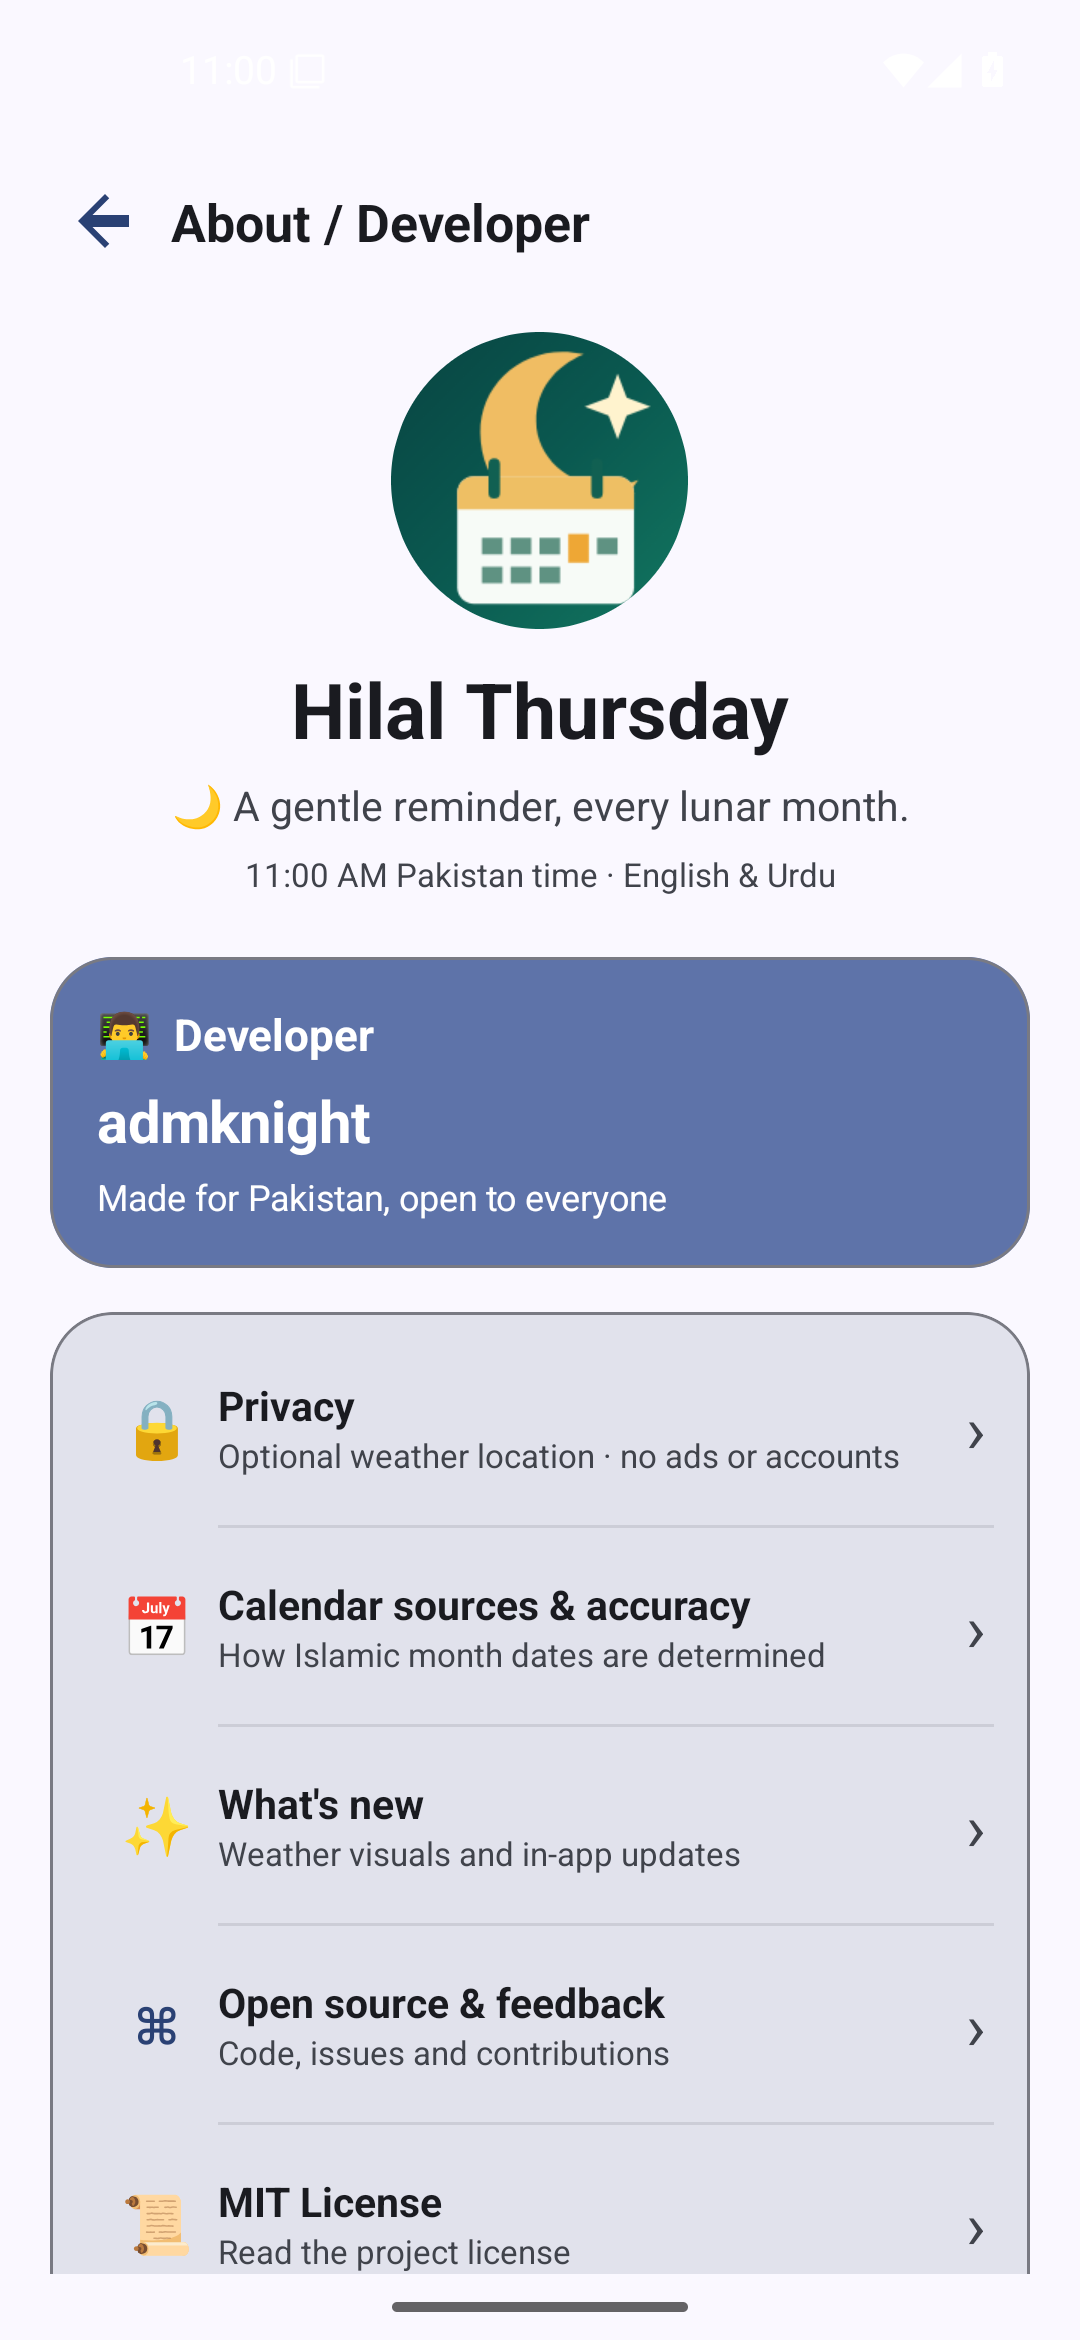
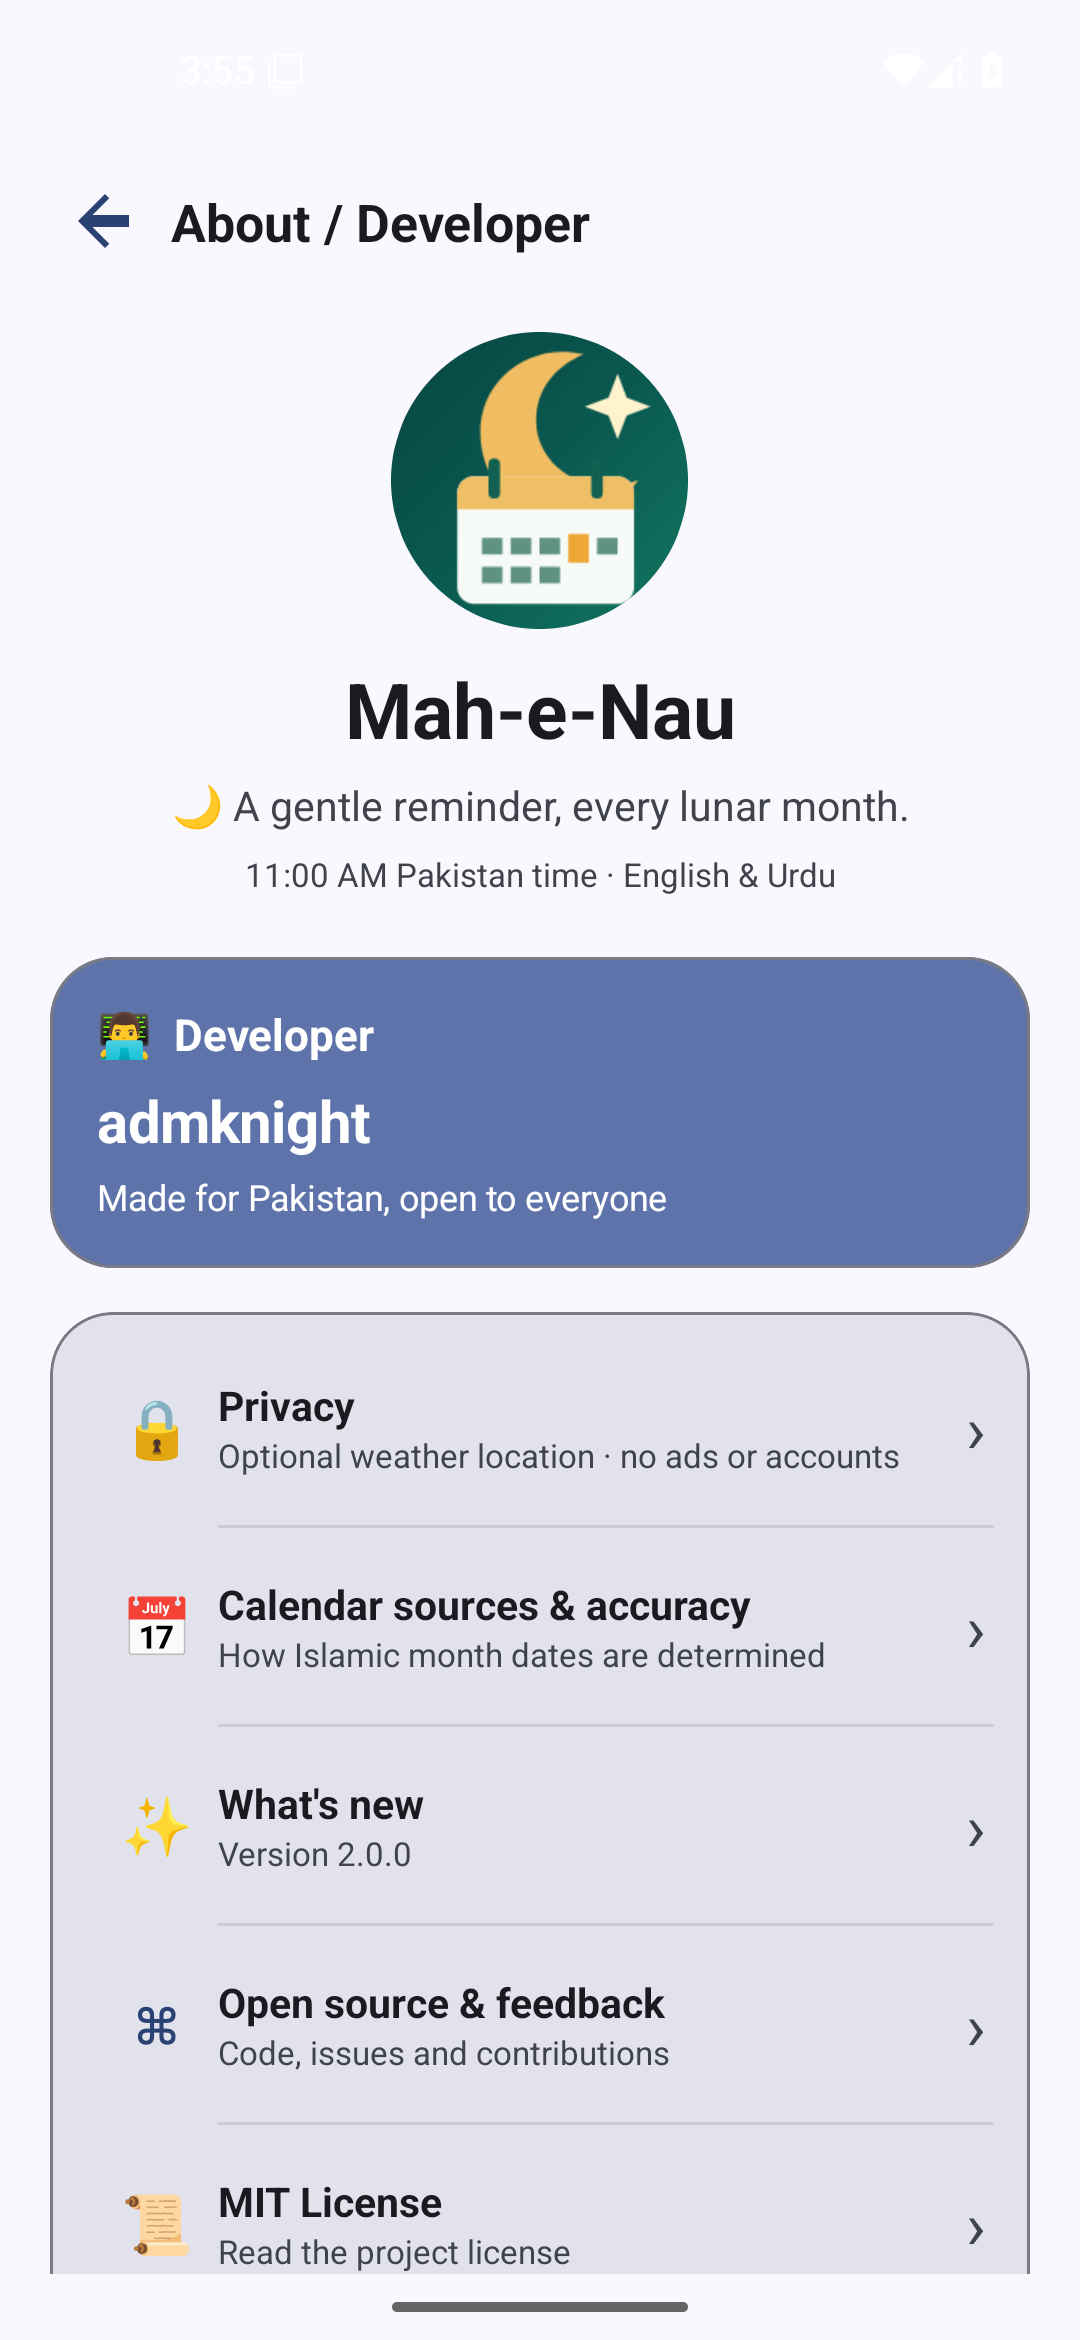
README: replace the v1.9.1 screenshots with version 2.0.1 captures
Twelve unedited emulator screenshots from the smoke-test run, showing the
Mah-e-Nau name and the screens added in 2.0. Removes the old capture
workflow and script, which were pinned to the v1.9.1 APK.

Claude-Session: https://claude.ai/code/session_01TxR8e23NeWMBJ9b8tC8q91

diff --git a/README.md b/README.md
@@ -25,28 +25,30 @@ A bilingual, open-source Android app that reminds you on the first Thursday of e
 
 ## Real app screenshots
 
-> These screenshots were taken from v1.9.1, when the app was still called Hilal Thursday. The name and several screens have changed since.
-
-These are **genuine, unedited screenshots** of the permanently signed **v1.9.1** APK running on a **Pixel 5 / Android 15 emulator (API 35)**, captured with Android Debug Bridge. They are **not promotional mockups**. This version fixes the duplicate crescent and shows **Today's Hijri Date** with its source/accuracy status, while future month dates remain labeled **Expected Hijri**. Settings include a user-selectable reminder time and city-based approximate Maghrib boundary. Weather/location was disabled during capture; the Hijri home display therefore shows its documented civil-date fallback.
+These are **unedited screenshots of version 2.0.1** running on a **Pixel 5 / Android 15 emulator (API 35)**, captured with Android Debug Bridge by the project's [emulator smoke test](scripts/smoke_test.sh) ([the run they came from](https://github.com/admknight/pakistan-lunar-thursday/actions/runs/43553804364)). They are **not mockups**. They come from the debug build of the same code as the signed release, not from the signed APK itself.
 
 | Dashboard · English | Dashboard · اردو | Upcoming Islamic months |
 |:---:|:---:|:---:|
-| <img src="docs/screenshots/home-en.png" width="245" alt="Actual signed v1.9.1 English dashboard: one corrected crescent, today's Hijri Date with forecast label, future expected Hijri reminder, and live countdown"> | <img src="docs/screenshots/home-ur.png" width="245" alt="Actual signed v1.9.1 Urdu RTL dashboard showing today's Hijri Date and the upcoming expected date"> | <img src="docs/screenshots/calendar-en.png" width="245" alt="Actual signed v1.9.1 calendar showing Gregorian dates and expected Hijri reminder dates with source status"> |
+| <img src="docs/screenshots/home-en.png" width="245" alt="English dashboard with the Hijri date for today, the next first-Thursday reminder and a live countdown"> | <img src="docs/screenshots/home-ur.png" width="245" alt="Urdu right-to-left dashboard"> | <img src="docs/screenshots/calendar-en.png" width="245" alt="Upcoming Hijri months with each first Thursday and its source label"> |
 
-| Signature alarm sound picker | Ringing alarm settings | Weather and location |
+| Prayer times and Qibla | Daily verse card | Months and observances |
 |:---:|:---:|:---:|
-| <img src="docs/screenshots/alarm-sounds-en.png" width="245" alt="Actual selection screen for Hilal Noor, Sukoon, Hilal Nida and Android phone alarm sounds"> | <img src="docs/screenshots/settings-alarm-en.png" width="245" alt="Actual settings with ringing alarm enabled and the selectable signature alarm sound"> | <img src="docs/screenshots/weather-settings-en.png" width="245" alt="Actual signed v1.9.1 Maghrib city selection and optional local-weather settings"> |
+| <img src="docs/screenshots/prayer-times-en.png" width="245" alt="Calculated prayer times for Lahore with the Qibla bearing"> | <img src="docs/screenshots/verse-card-en.png" width="245" alt="Daily verse card with both dates, the verse, its Urdu translation and the app name"> | <img src="docs/screenshots/observances-en.png" width="245" alt="Lower part of the calendar: later months and the start of the observances list"> |
+
+| Tasbih counter | Alarm sound picker | Settings |
+|:---:|:---:|:---:|
+| <img src="docs/screenshots/tasbih-en.png" width="245" alt="Tasbih counter with target and reset"> | <img src="docs/screenshots/alarm-sounds-en.png" width="245" alt="Selection screen for the three built-in alarm sounds and phone alarm tones"> | <img src="docs/screenshots/settings-en.png" width="245" alt="Settings with language, reminder time, ringing alarm and observance choices"> |
 
 <details>
-<summary>More screenshots — updates, About and general Settings</summary>
+<summary>More screenshots: updates, About and the alarm screen</summary>
 
-| Updates and date checks | About &amp; Developer | General settings |
+| Updates and date checks | About &amp; Developer | Test alarm screen |
 |:---:|:---:|:---:|
-| <img src="docs/screenshots/updates-en.png" width="245" alt="Real updates page, including release and calendar-source check status"> | <img src="docs/screenshots/about-en.png" width="245" alt="Real About page with developer, privacy and source links"> | <img src="docs/screenshots/settings-en.png" width="245" alt="Real signed v1.9.1 settings screen with user-selectable reminder time, language, alarm, and permission controls"> |
+| <img src="docs/screenshots/updates-en.png" width="245" alt="Updates page with the installed version and date-check status"> | <img src="docs/screenshots/about-en.png" width="245" alt="About page with developer, privacy and source links"> | <img src="docs/screenshots/alarm-screen-en.png" width="245" alt="Full-screen alarm with a Dismiss button, shown for the test alarm"> |
 
 </details>
 
-The captures show the app's real Android UI, including its emulator permission state and the selected date source; dates are illustrative, **not official moon-sighting announcements**. UI colors, fonts and positioning can vary by device. See [the reproducible capture script](scripts/capture_readme_screenshots.sh) and [verified v1.9.1 emulator capture run](https://github.com/admknight/pakistan-lunar-thursday/actions/runs/43324644906).
+The captures show the app's real Android UI in the emulator's permission state. Dates are illustrative, **not official moon-sighting announcements**, and the verse card's colours change with the date. Colours, fonts and positioning can vary by device.
 
 ## Download / install
 
